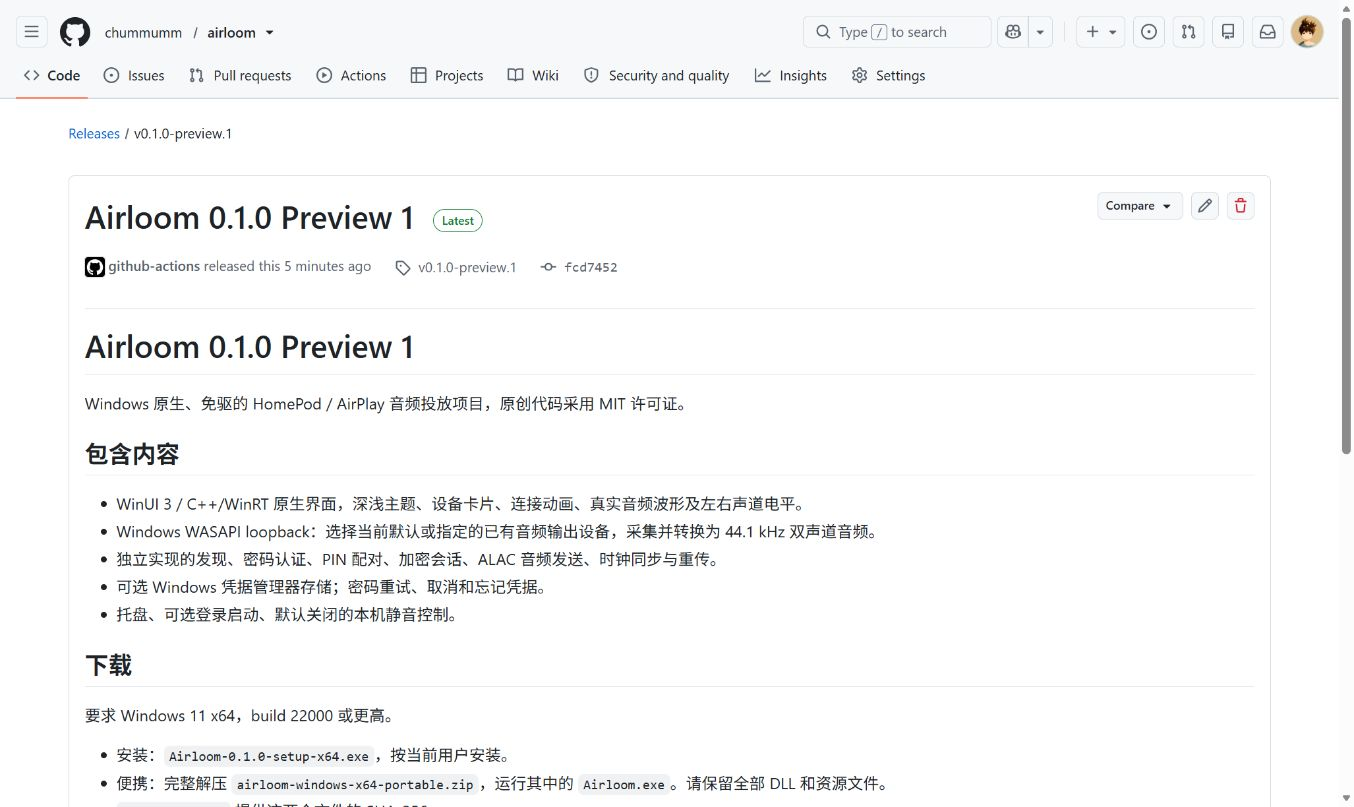
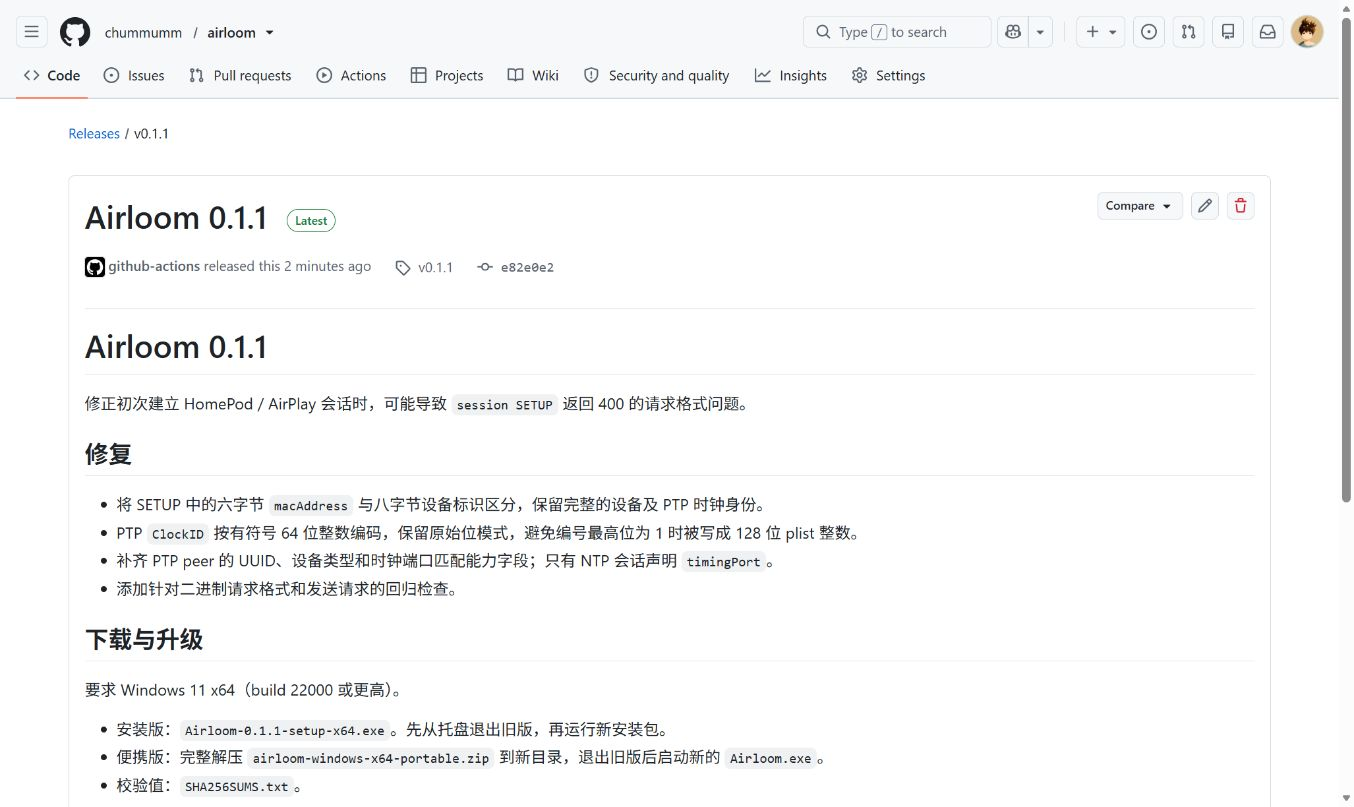
docs: update 0.1.1 downloads and Latest release evidence [skip ci]

diff --git a/README.md b/README.md
@@ -4,7 +4,7 @@
 
 一个从零实现的 Windows 原生音频投放应用：WinUI 3 界面、Rust 音频核心、Windows 自带音频采集。无需安装自定义虚拟声卡驱动。
 
-> **开发预览 · 0.1.0 Preview 1**：已提供 Windows 安装包和便携版，并通过原生编译、打包启动及协议自动化检查。真实 HomePod 的播放与兼容性尚待实机验证；当前不承诺全型号、全固件、立体声组合或所有访问控制策略可用。
+> **开发中 · 0.1.1**：已提供 Windows 安装包和便携版，并通过原生编译、打包启动及协议自动化检查。真实 HomePod 的播放与兼容性尚待实机验证；当前不承诺全型号、全固件、立体声组合或所有访问控制策略可用。
 
 [![Build and verify](https://github.com/chummumm/airloom/actions/workflows/ci.yml/badge.svg)](https://github.com/chummumm/airloom/actions/workflows/ci.yml)
 [![License: MIT](https://img.shields.io/badge/License-MIT-8b7cf6.svg)](LICENSE)
@@ -13,7 +13,7 @@
 
 ![Airloom 原生窗口的实际 Windows CI 截图](docs/evidence/native-window.png)
 
-这是从发布用便携 ZIP 解压后实际启动的 WinUI 3 窗口。CI 没有可用的播放设备，也未连接 HomePod，因此截图显示真实的发现空状态。小屏幕下可向下滚动访问开始投放、音量和静音控制。
+这是首版 0.1.0 便携 ZIP 解压后实际启动的 WinUI 3 窗口，0.1.1 保留相同界面布局。CI 没有可用的播放设备，也未连接 HomePod，因此截图显示真实的发现空状态。小屏幕下可向下滚动访问开始投放、音量和静音控制。
 
 ## 体验
 
@@ -26,15 +26,17 @@
 
 ## 下载与运行
 
-下载 [Airloom 0.1.0 Preview 1](https://github.com/chummumm/airloom/releases/tag/v0.1.0-preview.1)：
+下载 [Airloom 0.1.1 · Latest](https://github.com/chummumm/airloom/releases/latest)：
+
+0.1.1 修正首次建立会话时可能导致 `session SETUP 400` 的 MAC 地址格式、PTP 时钟整数编码及 peer 字段问题。升级前先从托盘退出旧版，再运行新安装包；详见[版本说明](docs/releases/0.1.1.md)。
 
 | 文件 | 用途 |
 | --- | --- |
-| [Airloom-0.1.0-setup-x64.exe](https://github.com/chummumm/airloom/releases/download/v0.1.0-preview.1/Airloom-0.1.0-setup-x64.exe) | 按当前用户安装，约 40 MB |
-| [airloom-windows-x64-portable.zip](https://github.com/chummumm/airloom/releases/download/v0.1.0-preview.1/airloom-windows-x64-portable.zip) | 完整解压即可运行，约 60 MB |
-| [SHA256SUMS.txt](https://github.com/chummumm/airloom/releases/download/v0.1.0-preview.1/SHA256SUMS.txt) | 两个下载文件的完整性校验值 |
+| [Airloom-0.1.1-setup-x64.exe](https://github.com/chummumm/airloom/releases/download/v0.1.1/Airloom-0.1.1-setup-x64.exe) | 按当前用户安装，约 40 MB |
+| [airloom-windows-x64-portable.zip](https://github.com/chummumm/airloom/releases/download/v0.1.1/airloom-windows-x64-portable.zip) | 完整解压即可运行，约 60 MB |
+| [SHA256SUMS.txt](https://github.com/chummumm/airloom/releases/download/v0.1.1/SHA256SUMS.txt) | 两个下载文件的完整性校验值 |
 
-预览版来自[全部检查通过的构建](https://github.com/chummumm/airloom/actions/runs/39533427906)，源码提交为 `fcd7452750624bca4bcb8d6c25474c9cc23f503c`。发布页也保留原生窗口截图与启动检查结果。后续开发构建可在 [Actions](https://github.com/chummumm/airloom/actions/workflows/ci.yml) 的 `airloom-windows-x64` Artifact 中获取。
+0.1.1 来自[全部检查通过的构建](https://github.com/chummumm/airloom/actions/runs/39536144084)，源码提交为 `e82e0e2b1e16f41762244fb1e22614e40d04527d`。发布页也保留原生窗口截图与启动检查结果。后续开发构建可在 [Actions](https://github.com/chummumm/airloom/actions/workflows/ci.yml) 的 `airloom-windows-x64` Artifact 中获取。
 
 要求 Windows 11 x64（build 22000 或更高）。电脑与接收端需处于可以互相发现和通信的局域网。解压便携 ZIP 后运行 `Airloom.exe`，或运行安装包。不要只复制 EXE：原生应用和 Windows App SDK 的自包含文件需要放在一起。
 
@@ -56,9 +58,9 @@
 | 密码保护 | 有协议与 UI 实现；需要逐型号、固件和访问策略实测 |
 | 实际播放延迟 | 尚未测量，不把接收缓冲设置当作端到端实测值 |
 | HomePod 立体声组合、多房间同步 | 未验证 |
-| 真实 HomePod 实机结果 | 尚未取得；欢迎提交脱敏兼容性报告 |
+| 真实 HomePod 实机结果 | 已收到首个 SETUP 400 的报告并修正请求格式；等待 0.1.1 实机复测 |
 
-本次发布的 Linux 常规测试 40 项、Windows 常规测试 38 项全部通过。Linux 另通过 FFmpeg 对 ALAC 的独立解码检查；Windows 未安装 FFmpeg，因此该项在那里跳过。认证验证包含独立 SRP 数学向量，以及合成接收端上的密码、PIN、重新验证、加密音频与错误密码拒绝流程。这些检查不替代真实 HomePod 播放测试。
+本次发布的 Linux 常规测试 44 项、Windows 常规测试 42 项全部通过。Linux 另通过 FFmpeg 对 ALAC 的独立解码检查；Windows 未安装 FFmpeg，因此该项在那里跳过。其中包含 4 项新增 SETUP 字段与二进制编码回归。认证验证包含独立 SRP 数学向量，以及合成接收端上的密码、PIN、重新验证、加密音频与错误密码拒绝流程。这些检查不替代真实 HomePod 播放测试。
 
 WASAPI 采集不会自动改变应用的本地输出路由。独占模式、受保护内容、声卡特有音效和静音位置可能影响采集。没有声卡驱动签名问题，但公开下载的预览应用/安装包仍可能出现系统的发布者或信誉提示。
 
